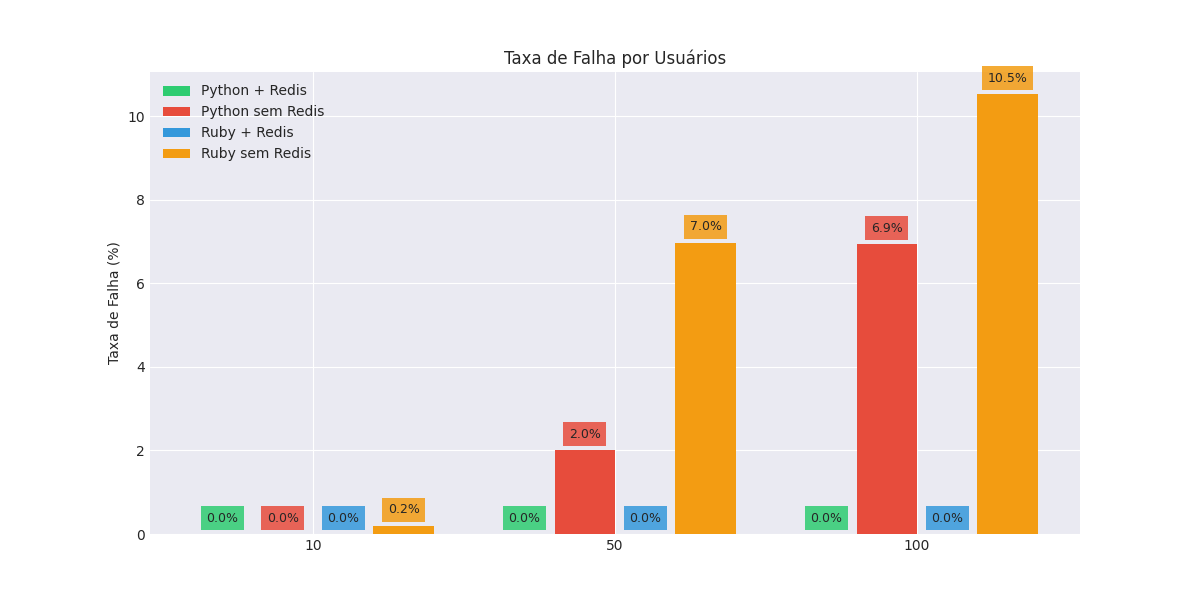
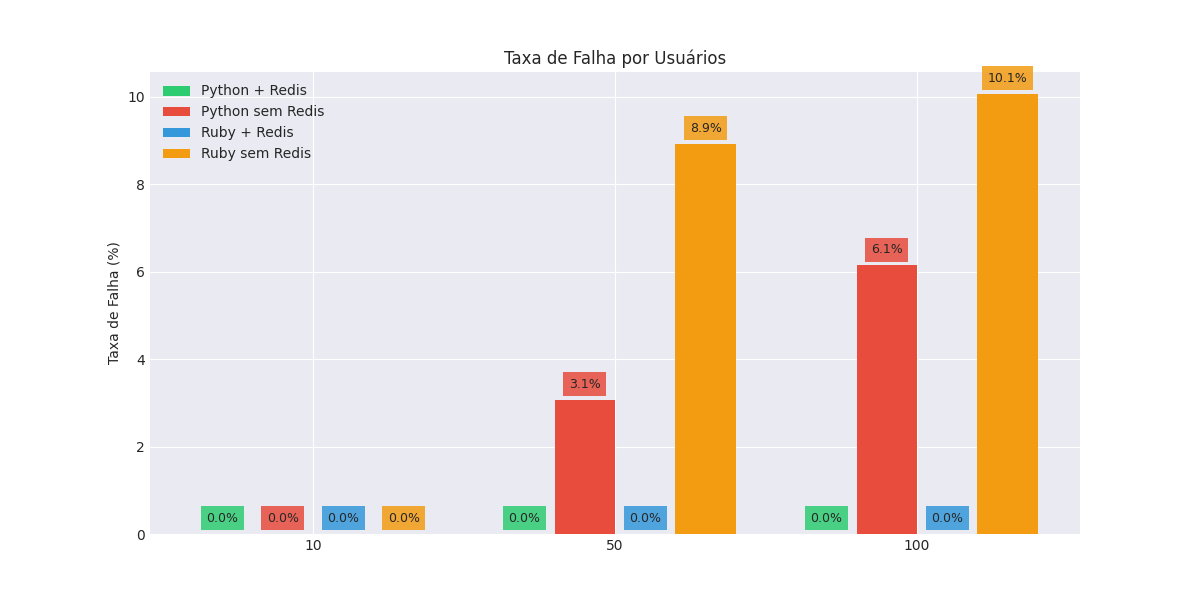
Atualiza usuários de teste para 10, 50 e 100 e ajusta URLs de amostra nos scripts de desempenho

diff --git a/Trabalho 4/locust/locustfile.py b/Trabalho 4/locust/locustfile.py
@@ -8,7 +8,7 @@ SAMPLE_URLS = [
     "https://curlie.org/",  # 12 links
     "https://wiki.archlinux.org/",  # 108 links
     "https://help.ubuntu.com/",  # 29 links
-    "https://www.gutenberg.org/browse/categories/1.html.utf8",  # 1533 links
+    "https://ftp.gnu.org/gnu/",  # 392 links
     "https://news.ycombinator.com/",  # 225 links
     "https://archive.apache.org/dist/",  # 305 links
     "https://edition.cnn.com/",  # 491 links

diff --git a/Trabalho 4/locust/generate_charts.py b/Trabalho 4/locust/generate_charts.py
@@ -26,7 +26,7 @@ def _annotate_bars(ax, bars, fmt="{:.0f}", fontsize=9, color='black'):
                     bbox=dict(facecolor=color, edgecolor='none', alpha=0.85))
 
 # Quantidade de usuários
-users = ["5", "30", "80"]
+users = ["10", "50", "100"]
 categ_user = ["baixo", "medio", "alto"]
 data = {
     'python_redis': {'p95': [], 'failures': []},
